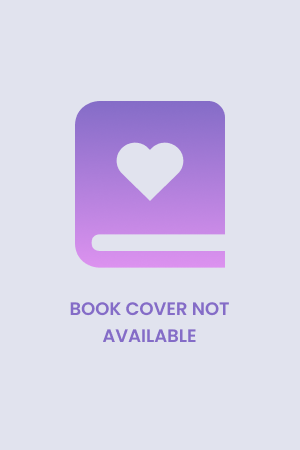
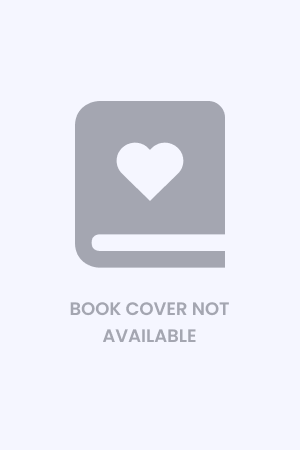
changing header img and color palette

Changed region(s): [[0.24, 0.2178, 0.75, 0.6222], [0.21, 0.6533, 0.78, 0.7778]]

diff --git a/assets/css/styles.css b/assets/css/styles.css
@@ -1,11 +1,11 @@
 :root{
-    --white: #FFFFFF;
-    --main: #F5F6FF;
-    --gray: #979797;
-    --lila: #DC92EF;
-    --purple: #846cc7;
-    --main-shadow: #D3D5E3;
-    --main-text: #554D68;
+    --white: rgb(244, 245, 255);
+    --main: rgb(227, 228, 244);
+    --gray: rgb(151, 151, 151);
+    --transparent: rgba(97, 97, 97, 0.5);
+    --blue: rgb(77, 104, 236);
+    --main-shadow: rgb(189, 192, 216);
+    --main-text: rgb(55, 53, 61);
 }
 
 /* Clases Generales */
@@ -27,7 +27,15 @@ html, body{
 .container_header{
     height: 30vh;
     font-family: 'Poppins', sans-serif;
-    background: linear-gradient(180deg, var(--purple), var(--lila));
+    background-image: url('/assets/img/header.jpg');
+    background-size: cover;
+    background-position: center;
+}
+
+.header_text{
+    background: var(--transparent);
+    border: 3px solid var(--main);
+    backdrop-filter: blur(10px);
 }
 
 /* Clases del modal */
@@ -63,8 +71,9 @@ html, body{
 }
 
 .container_form input{
-    border-radius: 20px 0 0 20px;
+    background: var(--white);
     border: none;
+    border-radius: 20px 0 0 20px;
     outline: none;
 }
 
@@ -88,7 +97,7 @@ html, body{
 }
 
 .book_img:hover{
-    box-shadow: 0 0 24px 12px var(--main-shadow);
+    box-shadow: 0 0 24px 8px var(--main-shadow);
     transform: translateY(-10px);
     transition: 0.5s;
 }
@@ -107,9 +116,10 @@ html, body{
 }
 
 .book_link{
-    background: var(--purple);
+    background: var(--blue);
     text-decoration: none;
     color: var(--main);
+    box-shadow: 0 8px 24px var(--main-shadow);
 }
 
 .book_link:hover{
@@ -122,12 +132,13 @@ html, body{
 }
 
 .book_link_disable{
-    background: var(--purple);
+    background: var(--blue);
     text-decoration: none;
     color: var(--main);
     opacity: 75%;
     pointer-events: none;
 }
+
 
 /* Clases del footer */
 
@@ -138,7 +149,7 @@ html, body{
 }
 
 .footer_link{
-    color: var(--purple);
+    color: var(--blue);
     text-decoration: none;
 }
 
@@ -153,6 +164,6 @@ html, body{
   
   /* Handle */
   ::-webkit-scrollbar-thumb {
-    background: linear-gradient(180deg, var(--purple), var(--lila));
+    background: var(--gray);
   }
   

diff --git a/index.html b/index.html
@@ -12,14 +12,10 @@
     </head>
     <body>
         <header class="container-fluid container_header d-flex flex-column align-items-center justify-content-center font_color_secondary">
-            <div class="row">
-                <div class="col fst-italic display-5 text-center">
-                    “So many books, so little time”
-                </div>
-            </div>
-            <div class="row">
-                <div class="col fw-normal fs-3 text-center">
-                    Frank Zappa
+            <div class="row w-100">
+                <div class="col col-11 col-md-5 m-auto fst-italic fs-1 text-center header_text rounded">
+                    “So many books, so little time” <br>
+                    <span class="fw-normal fs-3 text-center"> Frank Zappa </span>
                 </div>
             </div>
         </header>
@@ -70,7 +66,7 @@
                     </div>
                 </div>
                 <div class="modal-footer">
-                    <a href="#" class="book_link w-100 py-3 fs-5 text-center rounded" id="modalBuy" target="_blank"><i class="bi bi-bag-fill"></i> Buy now</a>
+                    <a href="#" class="book_link w-100 py-3 fs-5 text-center rounded" id="modalBuy" target="_blank"><i class="bi bi-cart-fill"></i> Buy now</a>
                 </div>
             </div>
             </div>

diff --git a/assets/js/scripts.js b/assets/js/scripts.js
@@ -104,7 +104,7 @@ const addColumn = (key, title, first_publish_year, number_of_pages_median, cover
             <img src="${image}" alt="" class="book_img rounded mb-1" data-bs-toggle="modal" data-bs-target="#informationModal">
             <span class="book_title fs-5 fw-bold text-center text-truncate" data-bs-toggle="modal" data-bs-target="#informationModal">${title}</span>
             <span class="book_author fs-6 text-center text-truncate">By ${author_name}</span>
-            <a href="${goodreadsLink}" role="button" class="${hrefClass} w-100 mt-2 p-1 text-center  rounded" target="_blank"><i class="bi bi-bag-fill"></i> Buy now</a>
+            <a href="${goodreadsLink}" role="button" class="${hrefClass} w-100 mt-2 p-1 text-center rounded" target="_blank"><i class="bi bi-cart-fill"></i> Buy now</a>
         </div>
     `;
 
